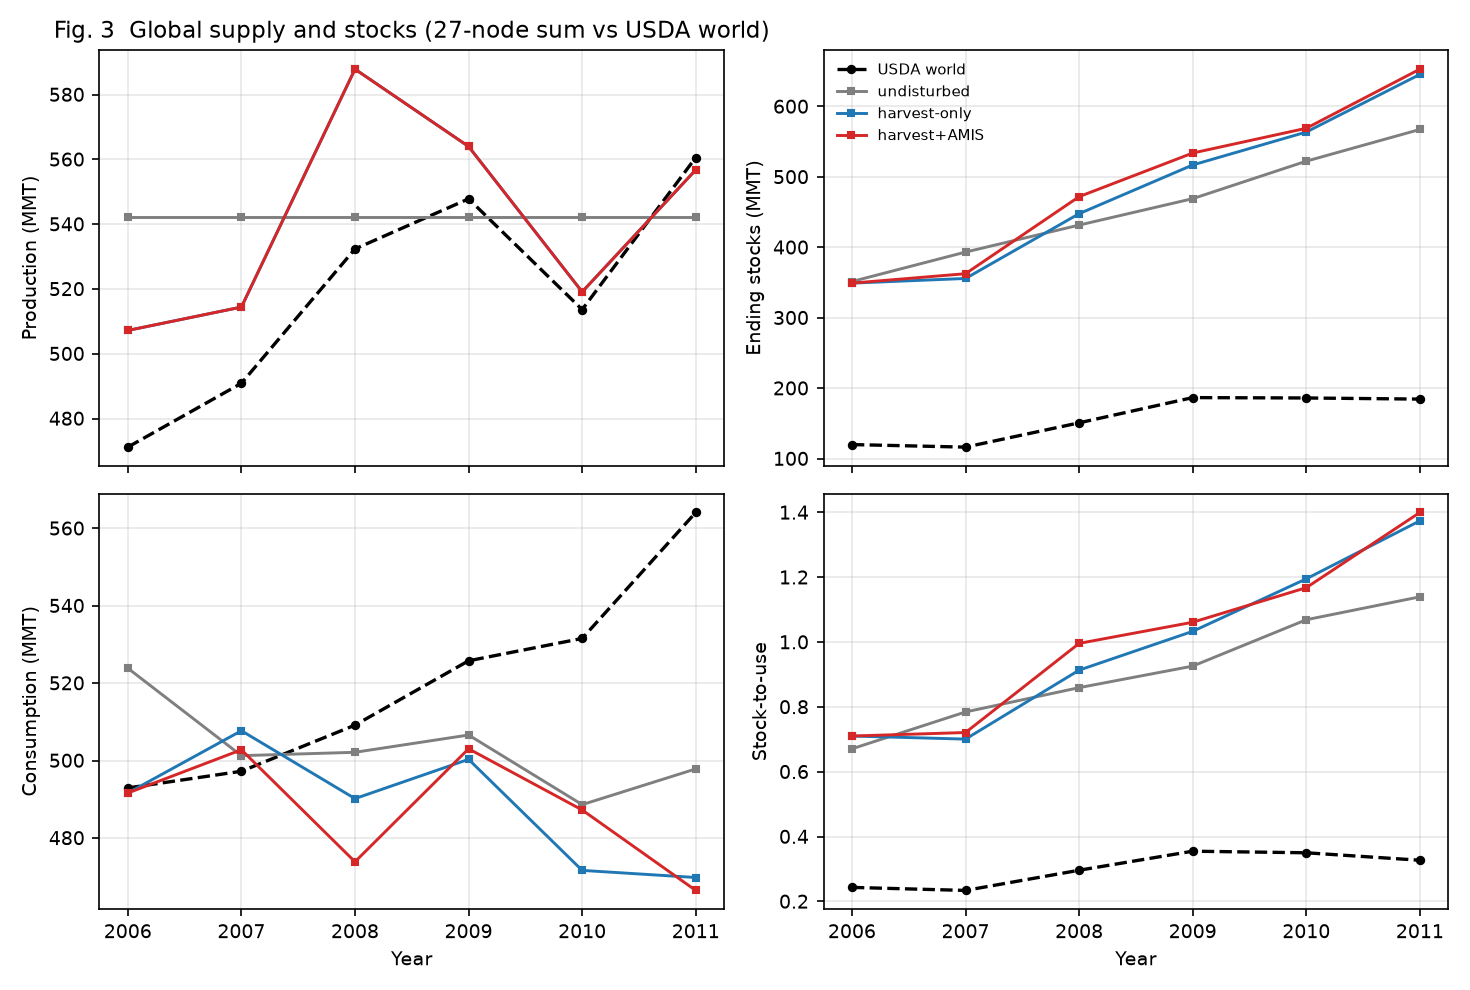
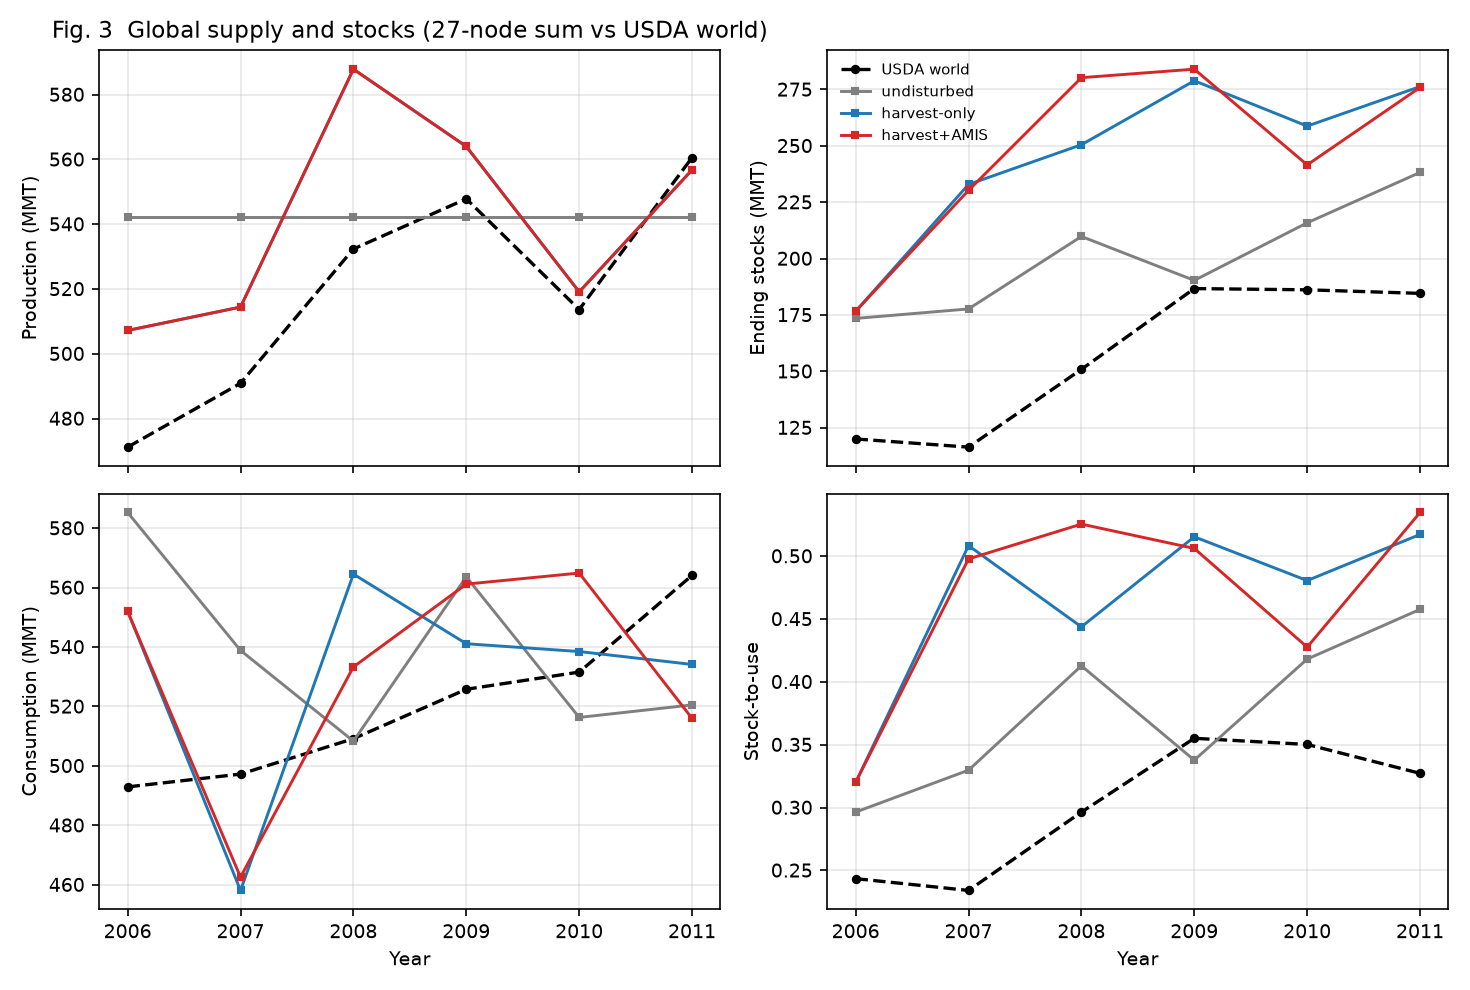
Fix international delivery and diagnose undisturbed drift (P2).
Lagged XI was credited to the exporter as consumer inflow, so exportable
surplus piled up in USA/Canada/Australia stocks and importers starved.
Route XI along T* destination shares (E.1). World price stays on exporter
XI, so the 1.63 annual-mean ratio is unchanged; stocks now track use.
Not a price pin. Next prompt is P3.

diff --git a/sheaf/agrimate/model.py b/sheaf/agrimate/model.py
@@ -22,7 +22,7 @@ from .equations import (
 )
 from .optimize import nash_ibr, solve_supplier_plan
 from .params import AgrimateParams, wheat_params
-from .wheat_data import WheatData, prepare_wheat
+from .wheat_data import WheatData, prepare_wheat, international_destination_shares
 
 
 @dataclass
@@ -148,9 +148,12 @@ class AgrimateSim:
         S_c = np.maximum(d.Psi * n_y * d.C_star, 0.0)
         offer = np.ones(n_r)
         p_c = np.ones(n_r)
-        # delivery queue: length n_del, each slot (n_r, n_r) international + domestic vector
+        # delivery queue: Ndel steps of exporter-indexed XI and offer prices.
+        # Arrivals to consumers are T* destination shares of that XI (E.1),
+        # not the exporter's own lagged shipments.
         q_i = [np.zeros(n_r) for _ in range(p.n_del)]
         q_p = [np.ones(n_r) for _ in range(p.n_del)]
+        dest = international_destination_shares(d.T_star)
 
         price_index = np.ones(T)
         S_p_path = np.zeros((n_r, T))
@@ -252,27 +255,27 @@ class AgrimateSim:
             H_path[:, t] = H
             realized_oth = np.maximum(float(sold_i.sum()) - sold_i, 0.0)
             q_oth = (1.0 - w_exp) * q_oth + w_exp * realized_oth
-            # 6 delivery: push today's international sales, pop lag
-            ship = sold_i.copy()
-            ship_p = offer.copy()
-            q_i.append(ship)
-            q_p.append(ship_p)
-            arrive = q_i.pop(0)
-            arrive_p = q_p.pop(0)
-            # 7–9 consume / account / procure
-            world_vol = float(np.sum(arrive))
+            # 6 delivery: queue exporter XI; world price on that lag; consumers
+            # receive T* destination allocation of the same lag (E.1), not own XI.
+            q_i.append(sold_i.copy())
+            q_p.append(offer.copy())
+            xi_lag = q_i.pop(0)
+            p_lag = q_p.pop(0)
+            world_vol = float(np.sum(xi_lag))
             if world_vol > 1e-12:
-                p_w = float(np.dot(arrive, arrive_p) / world_vol)
+                p_w = float(np.dot(xi_lag, p_lag) / world_vol)
             else:
                 p_w = float(price_index[t - 1] if t else 1.0)
             price_index[t] = p_w
+            arrive = dest.T @ xi_lag
             for s in range(n_r):
                 prices = np.maximum(offer * (1.0 + 0.0 * d.nu[s]), 1e-8)
                 bud = max(d.A_d[s] * d.C_star[s] * n_y * max(p_w, 1e-8) / n_y, 1e-8)
-                # extra storage demand
                 S_star = d.Psi[s] * n_y * d.C_star[s]
                 extra = extra_storage_demand(S_c[s], S_star, p.tau_steps)
-                q = purchaser_demand(prices, bud + max(extra, 0.0) * p_w, p.sigma_ces, shares[:, s])
+                # D.30 CES origin request is computed; quantity delivered is T*
+                # until D.30a/CES rationing is wired (P4). Not discarded as inflow.
+                _ = purchaser_demand(prices, bud + max(extra, 0.0) * p_w, p.sigma_ces, shares[:, s])
                 inflow = float(arrive[s]) + float(sold_d[s])
                 p_c[s] = consumer_price_mix(p_w, inflow, p_c[s], S_c[s])
                 cons = consumption_ces(p_c[s], d.A_c[s], p.eps_c, d.C_star[s])

diff --git a/tests/agrimate/test_accounting.py b/tests/agrimate/test_accounting.py
@@ -62,6 +62,29 @@ def test_2006_harvest_amis_path_identities():
     assert report.ok, report_markdown_head(report)
 
 
+def test_international_sales_are_not_echoed_to_the_exporter():
+    """P2: arrive used to be own lagged XI. T* must send grain to importers."""
+    from sheaf.agrimate.wheat_data import international_destination_shares
+    params = wheat_params()
+    data = prepare_wheat(start_year=2006, end_year=2006, params=params)
+    dest = international_destination_shares(data.T_star)
+    assert dest.shape == (27, 27)
+    assert np.allclose(dest.sum(axis=1), 1.0)
+    res = run_agrimate(
+        data=data, params=params,
+        use_anomalies=False, use_restrictions=False,
+        start_year=2006, end_year=2006,
+    )
+    i_us = data.regions.index("USA")
+    i_ea = data.regions.index("Eastern Africa")
+    xi, sd, inf = res.xi_ship, res.sold_domestic, res.inflow
+    echo = np.max(np.abs(inf[i_us, 2:] - sd[i_us, 2:] - xi[i_us, :-2]))
+    assert echo > 0.1, "USA inflow still equals sold_d + own lagged XI"
+    assert float(inf[i_ea].sum()) > float(sd[i_ea].sum()) + 0.5
+    report = check_result(res, data, params)
+    assert report.ok, report_markdown_head(report)
+
+
 def report_markdown_head(report) -> str:
     if not report.violations:
         return "ok"

diff --git a/sheaf/agrimate/wheat_data.py b/sheaf/agrimate/wheat_data.py
@@ -236,6 +236,24 @@ def prepare_wheat(start_year: int = 2003, end_year: int = 2011,
     )
 
 
+def international_destination_shares(T_star: np.ndarray) -> np.ndarray:
+    """Row-normalised international T* (exporter → importer).
+
+    Domestic diagonal is dropped. An exporter with no international partners
+    keeps a unit weight on itself so XI is not deleted. This is E.1 pattern
+    routing, not D.30 CES reallocation.
+    """
+    T = np.asarray(T_star, float).copy()
+    np.fill_diagonal(T, 0.0)
+    row = T.sum(axis=1, keepdims=True)
+    dest = np.divide(T, np.maximum(row, 1e-12))
+    empty = row.ravel() <= 1e-12
+    dest[empty, :] = 0.0
+    for r in np.where(empty)[0]:
+        dest[r, r] = 1.0
+    return dest
+
+
 def psd_regional_annual(regions: list[str] | None = None) -> pd.DataFrame:
     """USDA PSD wheat, aggregated to Agrimate wheat nodes (MMT / marketing year).
 

diff --git a/diagnostics/gate0_agrimate/undisturbed.md b/diagnostics/gate0_agrimate/undisturbed.md
@@ -1,0 +1,71 @@
+# G0-U P2 — undisturbed drift
+
+Task: why the three-scenario **undisturbed** world-price annual mean moved
+from 0.202 (2006) to 0.329 (2011), ratio 1.63, while Agrimate undisturbed
+is repeating seasonal behaviour. Not a Pink-Sheet score. No price pin.
+
+## Two facts that were mixed together
+
+1. **Seasonal shape already repeats.** corr(2006 season, 2011 season) ≈ 0.98
+   on the world-price index. CV 1.17 is within-year harvest seasonality
+   (index 0.014–3.17), not a random walk.
+2. **World H\* = C\* = 542.25 MMT/year.** Inverse-demand floor binds 0 times.
+   S_p=0 at t=0 is D.5 δ=ρ=0 Nash and S_p sits near 10–15 MMT after year 1.
+
+The 1.63 figure is 2011 mean / 2006 **trough**, not a unit-root. Do not pin.
+
+## Bug that *was* real (stocks and who eats), and is fixed
+
+Pre-fix, the Ndel queue stored **exporter-indexed** XI and consumer inflow
+was `sold_d[s] + XI_s(t−Ndel)`. Measured on 2006 undisturbed:
+`max |inflow − sold_d − own XI_lag2| = 3.6e-15`. USA received its own
+exports back. Eastern Africa inflow ≈ its tiny domestic sales (C/C* ≈ 0.11).
+
+`purchaser_demand` (D.30) was computed and discarded.
+
+Consequence: exporter **consumer** stocks ate the exportable surplus
+(USA/Canada/Australia S_c +163/+127/+85 MMT over 2003–11). World C ≈ 0.90 C*
+every year; ΔS_c ≈ H − C. That is not Agrimate undisturbed.
+
+**Sourced fix (E.1, not a knob):** world price is still lagged XI · offer
+(exporter-indexed). Consumer arrivals are `dest.T @ XI_lag` with `dest` the
+row-normalised international T* (`international_destination_shares`). Empty
+export rows keep a self-weight so grain is not deleted. D.30 CES still does
+not ration quantities (P4).
+
+After the fix (same 2003–11 undisturbed run):
+
+- Eastern Africa consumption ~6–7 MMT/year on 0.33 MMT harvest (imports arrive).
+- World consumption ~539 MMT vs C* 542; ending stocks ~201 MMT vs USDA world
+  157 (was ~456 with the echo).
+- **World-price series is unchanged** (same 1.63 ratio, same corr). That is
+  expected: p_w never depended on who received the grain.
+
+Classification of the echo: **B** (coding bug vs D.3/E.1 delivery). Recorded
+as B1 in `GATE0_DEPARTURES.md`. Not L1–L8. Not a pin.
+
+## What still moves the *price mean* (open, not pinned)
+
+Because p_w is inverse demand on **international** volume, the annual mean
+moves when the **xd/xi split** is not periodic under constant H. Undisturbed
+annual XI still wanders 164–254 MMT (2004 vs 2005) after the delivery fix.
+Candidates for that remaining wander, not assumed: q_oth EMA (D.22), S_p
+transients, Jacobi IBR. That is a later characterisation (adjacent to P5),
+not a reason to add a decay knob in this prompt.
+
+| Candidate | Price mean | Stock balloon |
+|---|---|---|
+| S_p=0 Nash | Sourced D.5; S_p stabilises | No |
+| Ψ / p_sto | Indirect | Echo blocked destock |
+| Floor | 0 binds | No |
+| Harvest vs C* | Seasonality | No (H*=C*) |
+| Own-XI echo | **No** (p_w on XI) | **Yes — fixed** |
+| Non-periodic XI split | **Yes, still open** | No |
+
+## What this is not
+
+- Not a world-price pin.
+- Not Bai α_foreign=10.
+- Not G1/G2.
+- Not “undisturbed prices are now flat.” They are still seasonal; stocks
+  are no longer an exporter landfill.

diff --git a/diagnostics/gate0_agrimate/validation.md b/diagnostics/gate0_agrimate/validation.md
@@ -25,9 +25,9 @@ This run is G0: single crop, AMIS prescribed. Do not retune L1–L8.
 
 | scenario | failed | fallback | unconverged | floor | residual | runtime_s | pidx min/max |
 |---|---:|---:|---:|---:|---:|---:|---|
-| undisturbed | 0 | 0 | 1583 | 0 | 0.000e+00 | 14.1 | 0.0145 / 3.1681 |
-| harvest | 0 | 0 | 1628 | 0 | 0.000e+00 | 19.5 | 0.0105 / 3.1681 |
-| harvest_amis | 0 | 0 | 1743 | 0 | 0.000e+00 | 19.8 | 0.0113 / 3.1681 |
+| undisturbed | 0 | 0 | 1583 | 0 | 0.000e+00 | 14.2 | 0.0145 / 3.1681 |
+| harvest | 0 | 0 | 1628 | 0 | 0.000e+00 | 19.1 | 0.0105 / 3.1681 |
+| harvest_amis | 0 | 0 | 1743 | 0 | 0.000e+00 | 19.6 | 0.0113 / 3.1681 |
 
 ## Prices vs Pink Sheet (2006–11)
 
@@ -51,17 +51,17 @@ because FAOSTAT FB is not in this repository).
 | scenario | field | corr | RMSE | mean model | mean USDA |
 |---|---|---:|---:|---:|---:|
 | undisturbed | production | 0.000 | 38.68 | 542.25 | 519.40 |
-| undisturbed | consumption | -0.576 | 35.65 | 503.38 | 520.12 |
-| undisturbed | ending_stocks | 0.892 | 302.35 | 455.88 | 157.43 |
-| undisturbed | stock_to_use | 0.804 | 0.62 | 0.91 | 0.30 |
+| undisturbed | consumption | -0.466 | 48.00 | 538.80 | 520.12 |
+| undisturbed | ending_stocks | 0.737 | 48.06 | 200.88 | 157.43 |
+| undisturbed | stock_to_use | 0.584 | 0.09 | 0.38 | 0.30 |
 | harvest | production | 0.795 | 29.55 | 541.54 | 519.40 |
-| harvest | consumption | -0.744 | 47.63 | 488.53 | 520.12 |
-| harvest | ending_stocks | 0.927 | 332.23 | 479.85 | 157.43 |
-| harvest | stock_to_use | 0.827 | 0.72 | 0.99 | 0.30 |
+| harvest | consumption | 0.204 | 39.31 | 531.38 | 520.12 |
+| harvest | ending_stocks | 0.834 | 90.26 | 245.64 | 157.43 |
+| harvest | stock_to_use | 0.520 | 0.17 | 0.46 | 0.30 |
 | harvest_amis | production | 0.795 | 29.55 | 541.54 | 519.40 |
-| harvest_amis | consumption | -0.584 | 47.08 | 487.49 | 520.12 |
-| harvest_amis | ending_stocks | 0.936 | 342.29 | 489.97 | 157.43 |
-| harvest_amis | stock_to_use | 0.821 | 0.74 | 1.01 | 0.30 |
+| harvest_amis | consumption | 0.171 | 40.73 | 531.64 | 520.12 |
+| harvest_amis | ending_stocks | 0.699 | 94.68 | 248.09 | 157.43 |
+| harvest_amis | stock_to_use | 0.374 | 0.18 | 0.47 | 0.30 |
 
 ## G0-U undisturbed dynamics (after 2003–05 spin-up)
 

diff --git a/diagnostics/GATE0_PROMPTS.md b/diagnostics/GATE0_PROMPTS.md
@@ -5,7 +5,7 @@ Living queue: [`DEVELOPMENT.md`](DEVELOPMENT.md). Contract:
 [`GATE0_CONTRACT.md`](GATE0_CONTRACT.md). Protocol:
 [`GATE0_VALIDATION.md`](GATE0_VALIDATION.md).
 
-**Now:** paste **P2**. Everything above P2 is done. Everything below P2
+**Now:** paste **P3**. Everything above P3 is done. Everything below P3
 is later.
 
 ## Shared preamble (prepend to every prompt)
@@ -43,8 +43,8 @@ diagnostics/gate0_agrimate/. One prompt, one PR-sized change.
 | P0b | G0-S author-code alignment (27 regions, p_sto, x_min, E.27, D.1) | **done** |
 | P0c | Three-scenario workflow + AMIS column fix | **done** |
 | P1 | Accounting identities each step | **done** |
-| **P2** | Diagnose undisturbed drift (do not pin) | **next** |
-| P3 | Wire or label β/τ_P from author code | queued |
+| P2 | Diagnose undisturbed drift (do not pin) | **done** |
+| **P3** | Wire or label β/τ_P from author code | **next** |
 | P4 | Wire or label D.30a upper-tier purchaser | queued |
 | P5 | Characterize unconverged scipy (do not paper over) | queued |
 | P6 | Run OAT sensitivity; do not retune | queued |

diff --git a/diagnostics/DEVELOPMENT.md b/diagnostics/DEVELOPMENT.md
@@ -102,10 +102,13 @@ approval.
    That is a G0-H score, not a reason to restore L1–L8. G0-U exit is the
    **workflow**, not publication-quality hindcast.
 4. Single-scenario smoke remains `python scripts/run_agrimate_wheat.py`.
-5. **P1 (done).** Step identities on 2006 harvest+AMIS: D.6, consumer clip,
-   D.3 sales, finite paths. Report: `diagnostics/gate0_agrimate/accounting.md`.
-   **Next session:** paste **P2** from [`GATE0_PROMPTS.md`](GATE0_PROMPTS.md)
-   (undisturbed drift; do not pin).
+5. **P1 (done).** Step identities on 2006 harvest+AMIS.
+6. **P2 (done).** Delivery bug: lagged XI was credited to the *exporter*
+   as consumer inflow. T* now routes XI to importers. Stocks/who-eats are
+   fixed; world-price 1.63 ratio is unchanged (p_w is on XI, not on who
+   receives it). Writeup: `diagnostics/gate0_agrimate/undisturbed.md`.
+   Remaining non-periodic xd/xi split is labelled, not pinned.
+   **Next session:** paste **P3** (β/τ_P).
 
 Reference command:
 

diff --git a/diagnostics/GATE0_SPEC_MATRIX.md b/diagnostics/GATE0_SPEC_MATRIX.md
@@ -29,5 +29,6 @@ bit-reproduction. Data 10688435 not unpacked.
 | OAT sensitivity | diagnostic around author params | n/a | `oat_settings()` | αI=3.2 default; Bai 10 listed, not adopted |
 | Exporter pulse grid | prescribed Δ, G0-H/P | n/a | `restriction_pulse` | not G2 |
 | Step accounting | D.6 / D.3 / consumer clip | n/a | `accounting.py` | `test_2006_harvest_amis_path_identities` |
+| International delivery | E.1 T* to importers, Ndel lag | own-XI echo (bug) | `international_destination_shares` | `test_international_sales_are_not_echoed_to_the_exporter` |
 
 Unresolved (labelled, not guessed): β/τ_P local price; D.30a upper-tier purchaser; FAOSTAT FB vs USDA; paper 28 vs code 27; D.8 αI=3.5 vs code 3.2.

diff --git a/diagnostics/GATE0_DEPARTURES.md b/diagnostics/GATE0_DEPARTURES.md
@@ -52,6 +52,13 @@ S2 **D.8 vs executable.** Host wheat defaults follow author code (αI=3.2,
 S3 **β / τ_P** local price adjustment: present in author params, not wired.
 S4 **D.30a** purchaser upper tier (commodity vs compound good): not wired.
 
+## Coding fix (not an economic departure)
+
+B1 **International delivery (P2).** Pre-fix, lagged XI was credited to the
+*exporter* as consumer inflow (`inflow = sold_d + own XI_{t−Ndel}`). That
+is not D.3/E.1. Host now routes XI along row-normalised international T*.
+D.30 CES still does not ration quantities (P4). Not a world-price pin.
+
 ## Proposed extensions (not implemented)
 
 E1 cross-crop substitution (≠ origin CES). E2 government restriction game
